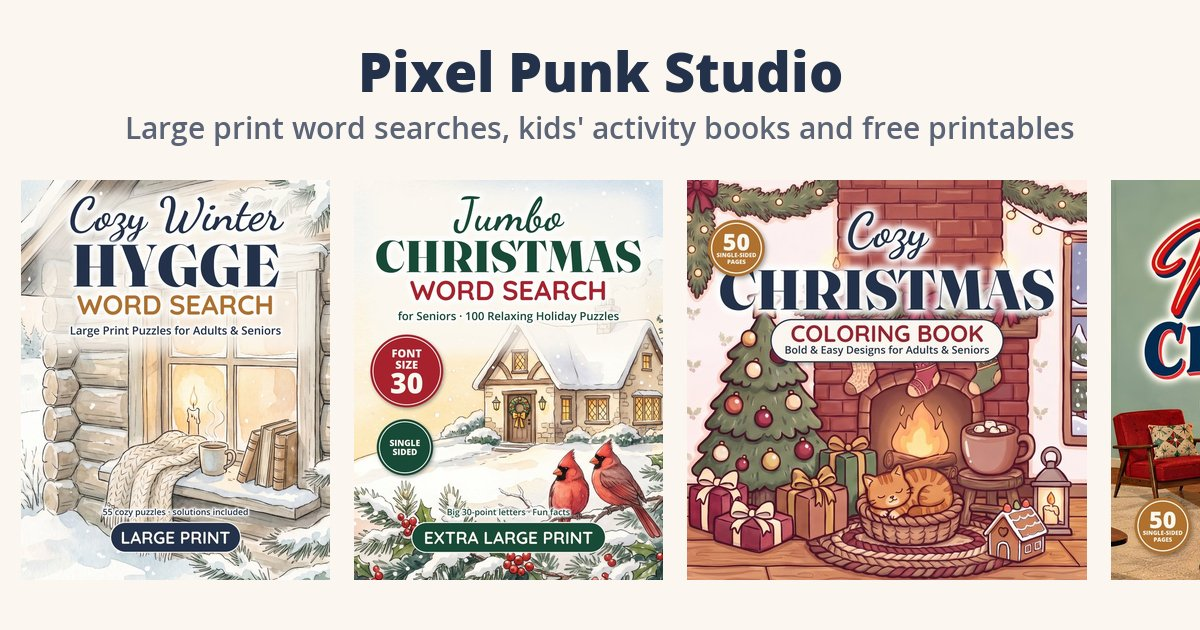
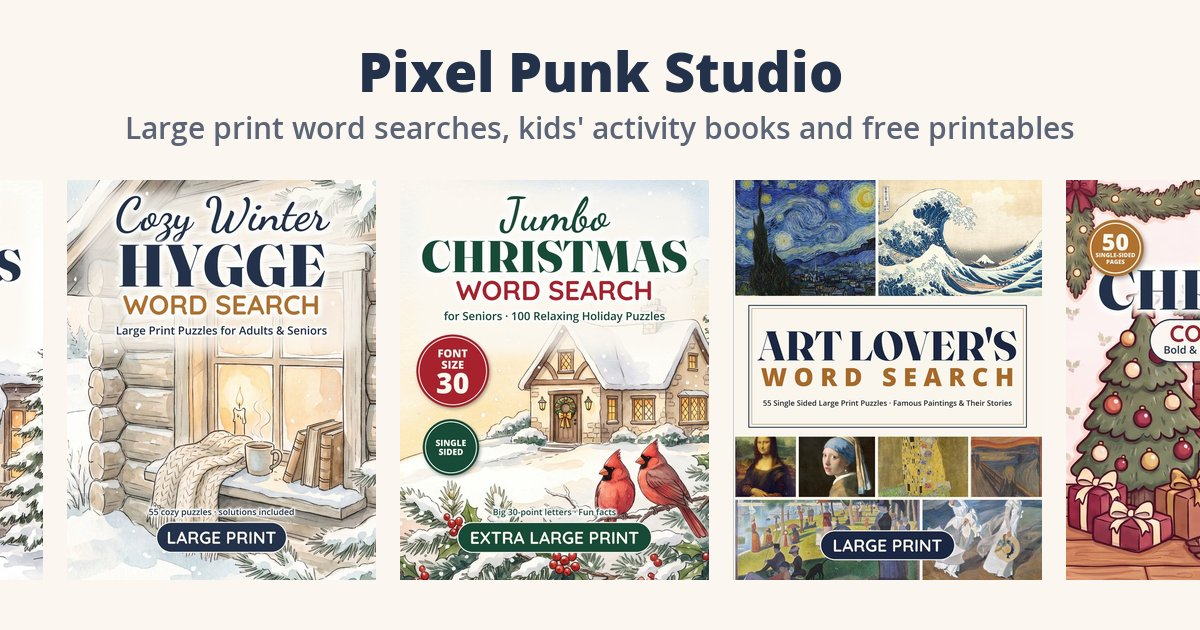
Update catalog

diff --git a/index.html b/index.html
@@ -31,7 +31,7 @@
 <link rel="alternate" type="application/rss+xml" title="Pixel Punk Studio blog" href="https://pixelpunkstudio.shop/feed.xml">
 <link rel="stylesheet" href="style.css?v=b02d7689">
 <script type="application/ld+json">{"@context": "https://schema.org", "@type": "Organization", "name": "Pixel Punk Studio", "url": "https://pixelpunkstudio.shop/", "logo": "https://pixelpunkstudio.shop/logo.png", "email": "hello@pixelpunkstudio.shop", "sameAs": ["https://www.amazon.com/Pixel-Punk-Studio/e/B0FCYYJ5FY"]}</script>
-<script type="application/ld+json">{"@context": "https://schema.org", "@type": "ItemList", "name": "Pixel Punk Studio books", "itemListElement": [{"@type": "ListItem", "position": 1, "item": {"@context": "https://schema.org", "@type": "Book", "name": "Cozy Christmas Word Search", "description": "55 festive large print puzzles, from the Nativity and the Nutcracker to Christmas around the world", "image": "https://pixelpunkstudio.shop/covers/cozy-christmas.jpg", "author": {"@type": "Organization", "name": "Pixel Punk Studio", "url": "https://pixelpunkstudio.shop/"}, "publisher": {"@type": "Organization", "name": "Pixel Punk Studio"}, "bookFormat": "https://schema.org/Paperback", "inLanguage": "en-US", "url": "https://www.amazon.com/dp/B0HNTD7VS7", "sameAs": "https://www.amazon.com/dp/B0HNTD7VS7"}}, {"@type": "ListItem", "position": 2, "item": {"@context": "https://schema.org", "@type": "Book", "name": "Cozy Winter Hygge Word Search", "description": "55 relaxing large print puzzles inspired by the Scandinavian art of cozy living", "image": "https://pixelpunkstudio.shop/covers/cozy-winter-hygge.jpg", "author": {"@type": "Organization", "name": "Pixel Punk Studio", "url": "https://pixelpunkstudio.shop/"}, "publisher": {"@type": "Organization", "name": "Pixel Punk Studio"}, "bookFormat": "https://schema.org/Paperback", "inLanguage": "en-US", "url": "https://www.amazon.com/dp/B0HMJH6W21", "sameAs": "https://www.amazon.com/dp/B0HMJH6W21"}}, {"@type": "ListItem", "position": 3, "item": {"@context": "https://schema.org", "@type": "Book", "name": "Jumbo Christmas Word Search for Seniors", "description": "100 extra large print Christmas puzzles in font size 30, with a fun fact beside every puzzle", "image": "https://pixelpunkstudio.shop/covers/jumbo-christmas.jpg", "author": {"@type": "Organization", "name": "Pixel Punk Studio", "url": "https://pixelpunkstudio.shop/"}, "publisher": {"@type": "Organization", "name": "Pixel Punk Studio"}, "bookFormat": "https://schema.org/Paperback", "inLanguage": "en-US", "url": "https://www.amazon.com/dp/B0HPL7DGYX", "sameAs": "https://www.amazon.com/dp/B0HPL7DGYX"}}, {"@type": "ListItem", "position": 4, "item": {"@context": "https://schema.org", "@type": "Book", "name": "Cozy Christmas Coloring Book for Adults and Seniors", "description": "50 peaceful holiday scenes in bold and easy large print designs, with a fun fact beside every page", "image": "https://pixelpunkstudio.shop/covers/cozy-christmas-coloring.jpg", "author": {"@type": "Organization", "name": "Pixel Punk Studio", "url": "https://pixelpunkstudio.shop/"}, "publisher": {"@type": "Organization", "name": "Pixel Punk Studio"}, "bookFormat": "https://schema.org/Paperback", "inLanguage": "en-US", "url": "https://www.amazon.com/dp/B0HPLFLS75", "sameAs": "https://www.amazon.com/dp/B0HPLFLS75"}}, {"@type": "ListItem", "position": 5, "item": {"@context": "https://schema.org", "@type": "Book", "name": "Nostalgic Christmas Coloring Book for Seniors", "description": "50 bold and easy 1950s holiday scenes, with a fun fact and a memory question beside every page", "image": "https://pixelpunkstudio.shop/covers/nostalgic-christmas-coloring.jpg", "author": {"@type": "Organization", "name": "Pixel Punk Studio", "url": "https://pixelpunkstudio.shop/"}, "publisher": {"@type": "Organization", "name": "Pixel Punk Studio"}, "bookFormat": "https://schema.org/Paperback", "inLanguage": "en-US", "url": "https://www.amazon.com/dp/B0HQ8F1JXV", "sameAs": "https://www.amazon.com/dp/B0HQ8F1JXV"}}, {"@type": "ListItem", "position": 6, "item": {"@context": "https://schema.org", "@type": "Book", "name": "Snowy Days Winter Word Search", "description": "55 winter activity puzzles, from building snowmen to sipping hot cocoa", "image": "https://pixelpunkstudio.shop/covers/winter-snowy-days.jpg", "author": {"@type": "Organization", "name": "Pixel Punk Studio", "url": "https://pixelpunkstudio.shop/"}, "publisher": {"@type": "Organization", "name": "Pixel Punk Studio"}, "bookFormat": "https://schema.org/Paperback", "inLanguage": "en-US", "url": "https://www.amazon.com/dp/B0DS9SG35T", "sameAs": "https://www.amazon.com/dp/B0DS9SG35T"}}, {"@type": "ListItem", "position": 7, "item": {"@context": "https://schema.org", "@type": "Book", "name": "Fresh Blooms Spring Word Search", "description": "55 spring puzzles full of gardens, picnics and blossoms", "image": "https://pixelpunkstudio.shop/covers/spring-fresh-blooms.jpg", "author": {"@type": "Organization", "name": "Pixel Punk Studio", "url": "https://pixelpunkstudio.shop/"}, "publisher": {"@type": "Organization", "name": "Pixel Punk Studio"}, "bookFormat": "https://schema.org/Paperback", "inLanguage": "en-US", "url": "https://www.amazon.com/dp/B0FLXRGFZY", "sameAs": "https://www.amazon.com/dp/B0FLXRGFZY"}}, {"@type": "ListItem", "position": 8, "item": {"@context": "https://schema.org", "@type": "Book", "name": "Sunny Vibes Summer Word Search", "description": "55 summer puzzles about camping, beaches and long sunny days", "image": "https://pixelpunkstudio.shop/covers/summer-sunny-vibes.jpg", "author": {"@type": "Organization", "name": "Pixel Punk Studio", "url": "https://pixelpunkstudio.shop/"}, "publisher": {"@type": "Organization", "name": "Pixel Punk Studio"}, "bookFormat": "https://schema.org/Paperback", "inLanguage": "en-US", "url": "https://www.amazon.com/dp/B0FRXWL9R7", "sameAs": "https://www.amazon.com/dp/B0FRXWL9R7"}}, {"@type": "ListItem", "position": 9, "item": {"@context": "https://schema.org", "@type": "Book", "name": "Crisp Leaves Fall Word Search", "description": "55 autumn puzzles with apple picking, hayrides and cozy campfires", "image": "https://pixelpunkstudio.shop/covers/fall-crisp-leaves.jpg", "author": {"@type": "Organization", "name": "Pixel Punk Studio", "url": "https://pixelpunkstudio.shop/"}, "publisher": {"@type": "Organization", "name": "Pixel Punk Studio"}, "bookFormat": "https://schema.org/Paperback", "inLanguage": "en-US", "url": "https://www.amazon.com/dp/B0FDL4QN1M", "sameAs": "https://www.amazon.com/dp/B0FDL4QN1M"}}, {"@type": "ListItem", "position": 10, "item": {"@context": "https://schema.org", "@type": "Book", "name": "Life on the Farm Word Search for Kids", "description": "50 farm-themed puzzles with fun facts about animals and activities", "image": "https://pixelpunkstudio.shop/covers/life-on-the-farm.jpg", "author": {"@type": "Organization", "name": "Pixel Punk Studio", "url": "https://pixelpunkstudio.shop/"}, "publisher": {"@type": "Organization", "name": "Pixel Punk Studio"}, "bookFormat": "https://schema.org/Paperback", "inLanguage": "en-US", "url": "https://www.amazon.com/dp/B0FHKMG9KK", "sameAs": "https://www.amazon.com/dp/B0FHKMG9KK"}}, {"@type": "ListItem", "position": 11, "item": {"@context": "https://schema.org", "@type": "Book", "name": "Bug Hunt Word Search Coloring Book", "description": "55 bug word searches with color-the-letters puzzles", "image": "https://pixelpunkstudio.shop/covers/bug-hunt.jpg", "author": {"@type": "Organization", "name": "Pixel Punk Studio", "url": "https://pixelpunkstudio.shop/"}, "publisher": {"@type": "Organization", "name": "Pixel Punk Studio"}, "bookFormat": "https://schema.org/Paperback", "inLanguage": "en-US", "url": "https://www.amazon.com/dp/B0G3H1KJLN", "sameAs": "https://www.amazon.com/dp/B0G3H1KJLN"}}, {"@type": "ListItem", "position": 12, "item": {"@context": "https://schema.org", "@type": "Book", "name": "Cute Farm Days Coloring Book", "description": "Adorable farm animals with easy designs and fun facts", "image": "https://pixelpunkstudio.shop/covers/cute-farm-days.jpg", "author": {"@type": "Organization", "name": "Pixel Punk Studio", "url": "https://pixelpunkstudio.shop/"}, "publisher": {"@type": "Organization", "name": "Pixel Punk Studio"}, "bookFormat": "https://schema.org/Paperback", "inLanguage": "en-US", "url": "https://www.amazon.com/dp/B0FBM7X2HR", "sameAs": "https://www.amazon.com/dp/B0FBM7X2HR"}}, {"@type": "ListItem", "position": 13, "item": {"@context": "https://schema.org", "@type": "Book", "name": "Cute Bug Days Coloring Book", "description": "50 cute bugs and insects to color, with a fun fact on every page", "image": "https://pixelpunkstudio.shop/covers/cute-bug-days.jpg", "author": {"@type": "Organization", "name": "Pixel Punk Studio", "url": "https://pixelpunkstudio.shop/"}, "publisher": {"@type": "Organization", "name": "Pixel Punk Studio"}, "bookFormat": "https://schema.org/Paperback", "inLanguage": "en-US", "url": "https://www.amazon.com/dp/B0HNTC7ZBX", "sameAs": "https://www.amazon.com/dp/B0HNTC7ZBX"}}, {"@type": "ListItem", "position": 14, "item": {"@context": "https://schema.org", "@type": "Book", "name": "Retirement Word Search", "description": "55 fun puzzles inspired by hobbies, travel, creativity and wellness", "image": "https://pixelpunkstudio.shop/covers/retirement.jpg", "author": {"@type": "Organization", "name": "Pixel Punk Studio", "url": "https://pixelpunkstudio.shop/"}, "publisher": {"@type": "Organization", "name": "Pixel Punk Studio"}, "bookFormat": "https://schema.org/Paperback", "inLanguage": "en-US", "url": "https://www.amazon.com/dp/B0HGB15BJ2", "sameAs": "https://www.amazon.com/dp/B0HGB15BJ2"}}, {"@type": "ListItem", "position": 15, "item": {"@context": "https://schema.org", "@type": "Book", "name": "Sudoku of Love", "description": "500+ romantic sudoku puzzles, very easy to hard, with solutions", "image": "https://pixelpunkstudio.shop/covers/sudoku-of-love.jpg", "author": {"@type": "Organization", "name": "Pixel Punk Studio", "url": "https://pixelpunkstudio.shop/"}, "publisher": {"@type": "Organization", "name": "Pixel Punk Studio"}, "bookFormat": "https://schema.org/Paperback", "inLanguage": "en-US", "url": "https://www.amazon.com/dp/B0DVR3HN6Q", "sameAs": "https://www.amazon.com/dp/B0DVR3HN6Q"}}]}</script>
+<script type="application/ld+json">{"@context": "https://schema.org", "@type": "ItemList", "name": "Pixel Punk Studio books", "itemListElement": [{"@type": "ListItem", "position": 1, "item": {"@context": "https://schema.org", "@type": "Book", "name": "Cozy Christmas Word Search", "description": "55 festive large print puzzles, from the Nativity and the Nutcracker to Christmas around the world", "image": "https://pixelpunkstudio.shop/covers/cozy-christmas.jpg", "author": {"@type": "Organization", "name": "Pixel Punk Studio", "url": "https://pixelpunkstudio.shop/"}, "publisher": {"@type": "Organization", "name": "Pixel Punk Studio"}, "bookFormat": "https://schema.org/Paperback", "inLanguage": "en-US", "url": "https://www.amazon.com/dp/B0HNTD7VS7", "sameAs": "https://www.amazon.com/dp/B0HNTD7VS7"}}, {"@type": "ListItem", "position": 2, "item": {"@context": "https://schema.org", "@type": "Book", "name": "Cozy Winter Hygge Word Search", "description": "55 relaxing large print puzzles inspired by the Scandinavian art of cozy living", "image": "https://pixelpunkstudio.shop/covers/cozy-winter-hygge.jpg", "author": {"@type": "Organization", "name": "Pixel Punk Studio", "url": "https://pixelpunkstudio.shop/"}, "publisher": {"@type": "Organization", "name": "Pixel Punk Studio"}, "bookFormat": "https://schema.org/Paperback", "inLanguage": "en-US", "url": "https://www.amazon.com/dp/B0HMJH6W21", "sameAs": "https://www.amazon.com/dp/B0HMJH6W21"}}, {"@type": "ListItem", "position": 3, "item": {"@context": "https://schema.org", "@type": "Book", "name": "Jumbo Christmas Word Search for Seniors", "description": "100 extra large print Christmas puzzles in font size 30, with a fun fact beside every puzzle", "image": "https://pixelpunkstudio.shop/covers/jumbo-christmas.jpg", "author": {"@type": "Organization", "name": "Pixel Punk Studio", "url": "https://pixelpunkstudio.shop/"}, "publisher": {"@type": "Organization", "name": "Pixel Punk Studio"}, "bookFormat": "https://schema.org/Paperback", "inLanguage": "en-US", "url": "https://www.amazon.com/dp/B0HPL7DGYX", "sameAs": "https://www.amazon.com/dp/B0HPL7DGYX"}}, {"@type": "ListItem", "position": 4, "item": {"@context": "https://schema.org", "@type": "Book", "name": "Art Lover's Word Search", "description": "55 large print puzzles about great painters and their famous paintings, with art history fun facts", "image": "https://pixelpunkstudio.shop/covers/art-lovers-word-search.jpg", "author": {"@type": "Organization", "name": "Pixel Punk Studio", "url": "https://pixelpunkstudio.shop/"}, "publisher": {"@type": "Organization", "name": "Pixel Punk Studio"}, "bookFormat": "https://schema.org/Paperback", "inLanguage": "en-US", "url": "https://www.amazon.com/dp/B0HQ8L5DMG", "sameAs": "https://www.amazon.com/dp/B0HQ8L5DMG"}}, {"@type": "ListItem", "position": 5, "item": {"@context": "https://schema.org", "@type": "Book", "name": "Cozy Christmas Coloring Book for Adults and Seniors", "description": "50 peaceful holiday scenes in bold and easy large print designs, with a fun fact beside every page", "image": "https://pixelpunkstudio.shop/covers/cozy-christmas-coloring.jpg", "author": {"@type": "Organization", "name": "Pixel Punk Studio", "url": "https://pixelpunkstudio.shop/"}, "publisher": {"@type": "Organization", "name": "Pixel Punk Studio"}, "bookFormat": "https://schema.org/Paperback", "inLanguage": "en-US", "url": "https://www.amazon.com/dp/B0HPLFLS75", "sameAs": "https://www.amazon.com/dp/B0HPLFLS75"}}, {"@type": "ListItem", "position": 6, "item": {"@context": "https://schema.org", "@type": "Book", "name": "Nostalgic Christmas Coloring Book for Seniors", "description": "50 bold and easy 1950s holiday scenes, with a fun fact and a memory question beside every page", "image": "https://pixelpunkstudio.shop/covers/nostalgic-christmas-coloring.jpg", "author": {"@type": "Organization", "name": "Pixel Punk Studio", "url": "https://pixelpunkstudio.shop/"}, "publisher": {"@type": "Organization", "name": "Pixel Punk Studio"}, "bookFormat": "https://schema.org/Paperback", "inLanguage": "en-US", "url": "https://www.amazon.com/dp/B0HQ8F1JXV", "sameAs": "https://www.amazon.com/dp/B0HQ8F1JXV"}}, {"@type": "ListItem", "position": 7, "item": {"@context": "https://schema.org", "@type": "Book", "name": "Snowy Days Winter Word Search", "description": "55 winter activity puzzles, from building snowmen to sipping hot cocoa", "image": "https://pixelpunkstudio.shop/covers/winter-snowy-days.jpg", "author": {"@type": "Organization", "name": "Pixel Punk Studio", "url": "https://pixelpunkstudio.shop/"}, "publisher": {"@type": "Organization", "name": "Pixel Punk Studio"}, "bookFormat": "https://schema.org/Paperback", "inLanguage": "en-US", "url": "https://www.amazon.com/dp/B0DS9SG35T", "sameAs": "https://www.amazon.com/dp/B0DS9SG35T"}}, {"@type": "ListItem", "position": 8, "item": {"@context": "https://schema.org", "@type": "Book", "name": "Fresh Blooms Spring Word Search", "description": "55 spring puzzles full of gardens, picnics and blossoms", "image": "https://pixelpunkstudio.shop/covers/spring-fresh-blooms.jpg", "author": {"@type": "Organization", "name": "Pixel Punk Studio", "url": "https://pixelpunkstudio.shop/"}, "publisher": {"@type": "Organization", "name": "Pixel Punk Studio"}, "bookFormat": "https://schema.org/Paperback", "inLanguage": "en-US", "url": "https://www.amazon.com/dp/B0FLXRGFZY", "sameAs": "https://www.amazon.com/dp/B0FLXRGFZY"}}, {"@type": "ListItem", "position": 9, "item": {"@context": "https://schema.org", "@type": "Book", "name": "Sunny Vibes Summer Word Search", "description": "55 summer puzzles about camping, beaches and long sunny days", "image": "https://pixelpunkstudio.shop/covers/summer-sunny-vibes.jpg", "author": {"@type": "Organization", "name": "Pixel Punk Studio", "url": "https://pixelpunkstudio.shop/"}, "publisher": {"@type": "Organization", "name": "Pixel Punk Studio"}, "bookFormat": "https://schema.org/Paperback", "inLanguage": "en-US", "url": "https://www.amazon.com/dp/B0FRXWL9R7", "sameAs": "https://www.amazon.com/dp/B0FRXWL9R7"}}, {"@type": "ListItem", "position": 10, "item": {"@context": "https://schema.org", "@type": "Book", "name": "Crisp Leaves Fall Word Search", "description": "55 autumn puzzles with apple picking, hayrides and cozy campfires", "image": "https://pixelpunkstudio.shop/covers/fall-crisp-leaves.jpg", "author": {"@type": "Organization", "name": "Pixel Punk Studio", "url": "https://pixelpunkstudio.shop/"}, "publisher": {"@type": "Organization", "name": "Pixel Punk Studio"}, "bookFormat": "https://schema.org/Paperback", "inLanguage": "en-US", "url": "https://www.amazon.com/dp/B0FDL4QN1M", "sameAs": "https://www.amazon.com/dp/B0FDL4QN1M"}}, {"@type": "ListItem", "position": 11, "item": {"@context": "https://schema.org", "@type": "Book", "name": "Life on the Farm Word Search for Kids", "description": "50 farm-themed puzzles with fun facts about animals and activities", "image": "https://pixelpunkstudio.shop/covers/life-on-the-farm.jpg", "author": {"@type": "Organization", "name": "Pixel Punk Studio", "url": "https://pixelpunkstudio.shop/"}, "publisher": {"@type": "Organization", "name": "Pixel Punk Studio"}, "bookFormat": "https://schema.org/Paperback", "inLanguage": "en-US", "url": "https://www.amazon.com/dp/B0FHKMG9KK", "sameAs": "https://www.amazon.com/dp/B0FHKMG9KK"}}, {"@type": "ListItem", "position": 12, "item": {"@context": "https://schema.org", "@type": "Book", "name": "Bug Hunt Word Search Coloring Book", "description": "55 bug word searches with color-the-letters puzzles", "image": "https://pixelpunkstudio.shop/covers/bug-hunt.jpg", "author": {"@type": "Organization", "name": "Pixel Punk Studio", "url": "https://pixelpunkstudio.shop/"}, "publisher": {"@type": "Organization", "name": "Pixel Punk Studio"}, "bookFormat": "https://schema.org/Paperback", "inLanguage": "en-US", "url": "https://www.amazon.com/dp/B0G3H1KJLN", "sameAs": "https://www.amazon.com/dp/B0G3H1KJLN"}}, {"@type": "ListItem", "position": 13, "item": {"@context": "https://schema.org", "@type": "Book", "name": "Cute Farm Days Coloring Book", "description": "Adorable farm animals with easy designs and fun facts", "image": "https://pixelpunkstudio.shop/covers/cute-farm-days.jpg", "author": {"@type": "Organization", "name": "Pixel Punk Studio", "url": "https://pixelpunkstudio.shop/"}, "publisher": {"@type": "Organization", "name": "Pixel Punk Studio"}, "bookFormat": "https://schema.org/Paperback", "inLanguage": "en-US", "url": "https://www.amazon.com/dp/B0FBM7X2HR", "sameAs": "https://www.amazon.com/dp/B0FBM7X2HR"}}, {"@type": "ListItem", "position": 14, "item": {"@context": "https://schema.org", "@type": "Book", "name": "Cute Bug Days Coloring Book", "description": "50 cute bugs and insects to color, with a fun fact on every page", "image": "https://pixelpunkstudio.shop/covers/cute-bug-days.jpg", "author": {"@type": "Organization", "name": "Pixel Punk Studio", "url": "https://pixelpunkstudio.shop/"}, "publisher": {"@type": "Organization", "name": "Pixel Punk Studio"}, "bookFormat": "https://schema.org/Paperback", "inLanguage": "en-US", "url": "https://www.amazon.com/dp/B0HNTC7ZBX", "sameAs": "https://www.amazon.com/dp/B0HNTC7ZBX"}}, {"@type": "ListItem", "position": 15, "item": {"@context": "https://schema.org", "@type": "Book", "name": "Retirement Word Search", "description": "55 fun puzzles inspired by hobbies, travel, creativity and wellness", "image": "https://pixelpunkstudio.shop/covers/retirement.jpg", "author": {"@type": "Organization", "name": "Pixel Punk Studio", "url": "https://pixelpunkstudio.shop/"}, "publisher": {"@type": "Organization", "name": "Pixel Punk Studio"}, "bookFormat": "https://schema.org/Paperback", "inLanguage": "en-US", "url": "https://www.amazon.com/dp/B0HGB15BJ2", "sameAs": "https://www.amazon.com/dp/B0HGB15BJ2"}}, {"@type": "ListItem", "position": 16, "item": {"@context": "https://schema.org", "@type": "Book", "name": "Sudoku of Love", "description": "500+ romantic sudoku puzzles, very easy to hard, with solutions", "image": "https://pixelpunkstudio.shop/covers/sudoku-of-love.jpg", "author": {"@type": "Organization", "name": "Pixel Punk Studio", "url": "https://pixelpunkstudio.shop/"}, "publisher": {"@type": "Organization", "name": "Pixel Punk Studio"}, "bookFormat": "https://schema.org/Paperback", "inLanguage": "en-US", "url": "https://www.amazon.com/dp/B0DVR3HN6Q", "sameAs": "https://www.amazon.com/dp/B0DVR3HN6Q"}}]}</script>
 </head>
 <body><main class="wide">
 <header class="top">
@@ -175,12 +175,13 @@
     <p class="intro">Large print word searches with a famous painting, the painter&#x27;s story and a fun fact beside every puzzle. A gallery tour for adults and seniors.</p>
     <div class="grid">
       <article class="book">
+        <span class="new-pill">New</span>
         <img src="covers/art-lovers-word-search.jpg" alt="Cover of Art Lover&#x27;s Word Search" loading="lazy">
         <div class="info">
           <h3>Art Lover&#x27;s Word Search</h3>
           <p>55 large print puzzles about great painters and their famous paintings, with art history fun facts</p>
           <div class="tags"><span class="tag">Large print</span><span class="tag">8.5 x 11</span><span class="tag">Adults &amp; seniors</span></div>
-          <span class="btn soon">Coming soon</span>
+          <a class="btn" href="https://www.amazon.com/dp/B0HQ8L5DMG" target="_blank" rel="noopener">View on Amazon</a>
           <a class="free" href="free-printable-leonardo-da-vinci-word-search.html">⬇ Free printable puzzle</a>
         </div>
       </article>

diff --git a/free-printable-leonardo-da-vinci-word-search.html b/free-printable-leonardo-da-vinci-word-search.html
@@ -30,7 +30,7 @@
 <link rel="icon" href="logo.png">
 <link rel="alternate" type="application/rss+xml" title="Pixel Punk Studio blog" href="https://pixelpunkstudio.shop/feed.xml">
 <link rel="stylesheet" href="style.css?v=b02d7689">
-<script type="application/ld+json">{"@context": "https://schema.org", "@type": "CreativeWork", "name": "Free Printable Leonardo da Vinci Word Search for Adults (Large Print, Mona Lisa)", "description": "Leonardo da Vinci: the Mona Lisa, the story of the painter and the day the painting was stolen from the Louvre, facing a large print word search with 30 words, from Gioconda and sfumato to notebooks, helicopter and the Last Supper. Free to download and print at home on letter paper.", "url": "https://pixelpunkstudio.shop/free-printable-leonardo-da-vinci-word-search.html", "image": ["https://pixelpunkstudio.shop/media/printables/art-lovers-word-search.jpg", "https://pixelpunkstudio.shop/media/pins/art-lovers-word-search.jpg"], "isAccessibleForFree": true, "inLanguage": "en-US", "encodingFormat": "application/pdf", "author": {"@type": "Organization", "name": "Pixel Punk Studio", "url": "https://pixelpunkstudio.shop/"}, "about": [{"@context": "https://schema.org", "@type": "Book", "name": "Art Lover's Word Search", "description": "55 large print puzzles about great painters and their famous paintings, with art history fun facts", "image": "https://pixelpunkstudio.shop/covers/art-lovers-word-search.jpg", "author": {"@type": "Organization", "name": "Pixel Punk Studio", "url": "https://pixelpunkstudio.shop/"}, "publisher": {"@type": "Organization", "name": "Pixel Punk Studio"}, "bookFormat": "https://schema.org/Paperback", "inLanguage": "en-US"}]}</script>
+<script type="application/ld+json">{"@context": "https://schema.org", "@type": "CreativeWork", "name": "Free Printable Leonardo da Vinci Word Search for Adults (Large Print, Mona Lisa)", "description": "Leonardo da Vinci: the Mona Lisa, the story of the painter and the day the painting was stolen from the Louvre, facing a large print word search with 30 words, from Gioconda and sfumato to notebooks, helicopter and the Last Supper. Free to download and print at home on letter paper.", "url": "https://pixelpunkstudio.shop/free-printable-leonardo-da-vinci-word-search.html", "image": ["https://pixelpunkstudio.shop/media/printables/art-lovers-word-search.jpg", "https://pixelpunkstudio.shop/media/pins/art-lovers-word-search.jpg"], "isAccessibleForFree": true, "inLanguage": "en-US", "encodingFormat": "application/pdf", "author": {"@type": "Organization", "name": "Pixel Punk Studio", "url": "https://pixelpunkstudio.shop/"}, "about": [{"@context": "https://schema.org", "@type": "Book", "name": "Art Lover's Word Search", "description": "55 large print puzzles about great painters and their famous paintings, with art history fun facts", "image": "https://pixelpunkstudio.shop/covers/art-lovers-word-search.jpg", "author": {"@type": "Organization", "name": "Pixel Punk Studio", "url": "https://pixelpunkstudio.shop/"}, "publisher": {"@type": "Organization", "name": "Pixel Punk Studio"}, "bookFormat": "https://schema.org/Paperback", "inLanguage": "en-US", "url": "https://www.amazon.com/dp/B0HQ8L5DMG", "sameAs": "https://www.amazon.com/dp/B0HQ8L5DMG"}]}</script>
 <script type="application/ld+json">{"@context": "https://schema.org", "@type": "BreadcrumbList", "itemListElement": [{"@type": "ListItem", "position": 1, "name": "Pixel Punk Studio", "item": "https://pixelpunkstudio.shop/"}, {"@type": "ListItem", "position": 2, "name": "Free printables", "item": "https://pixelpunkstudio.shop/free-printables.html"}, {"@type": "ListItem", "position": 3, "name": "Leonardo da Vinci Word Search", "item": "https://pixelpunkstudio.shop/free-printable-leonardo-da-vinci-word-search.html"}]}</script>
 </head><body><main class="wide">
 <header class="top">
@@ -89,7 +89,7 @@
   <h2>Enjoyed it? Get the full book</h2>
   <div class="grid"><article class="book">
   <img src="covers/art-lovers-word-search.jpg" alt="Cover of Art Lover&#x27;s Word Search" loading="lazy">
-  <div class="info"><h3>Art Lover&#x27;s Word Search</h3><p>55 large print puzzles about great painters and their famous paintings, with art history fun facts</p><span class="btn soon">Coming soon</span></div>
+  <div class="info"><h3>Art Lover&#x27;s Word Search</h3><p>55 large print puzzles about great painters and their famous paintings, with art history fun facts</p><a class="btn" href="https://www.amazon.com/dp/B0HQ8L5DMG" target="_blank" rel="noopener">View on Amazon</a></div>
 </article></div>
 </section>
 <section>
